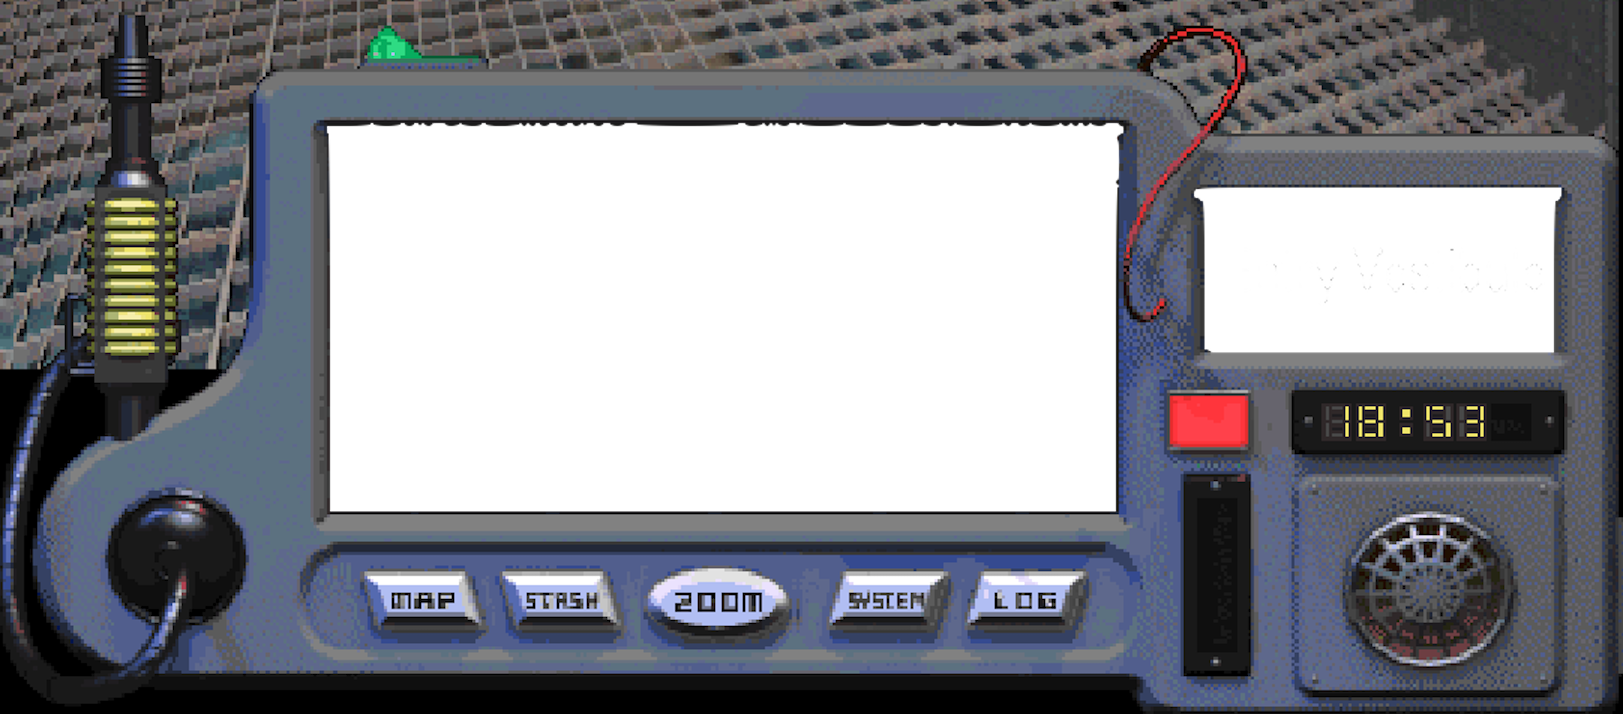
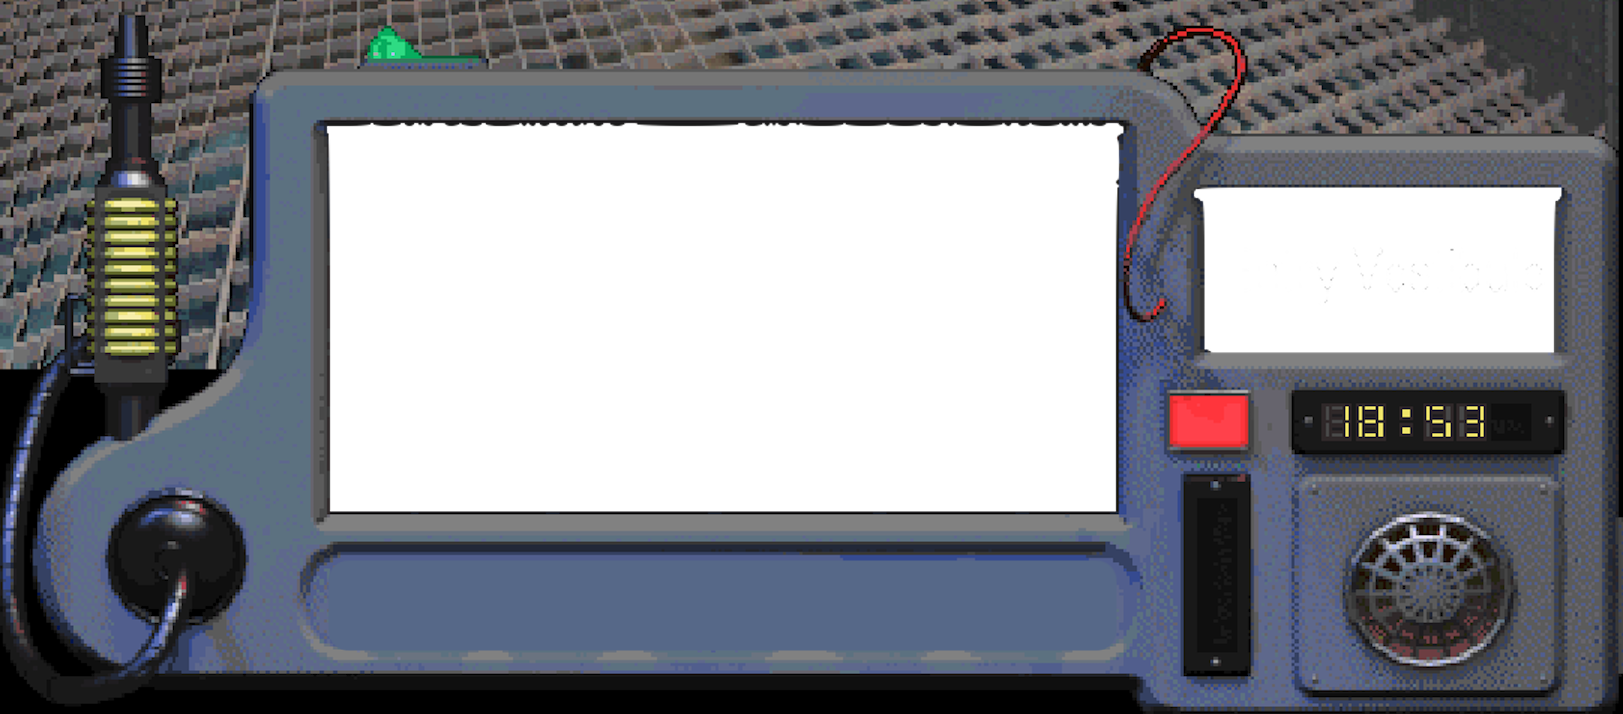
interface good enough for now

Changed region(s): [[0.2157, 0.7703, 0.6778, 0.9244]]

diff --git a/src/app/page.tsx b/src/app/page.tsx
@@ -123,33 +123,41 @@ export default function Home() {
           </div>
         </div>
 
-        {/* Input Area - Positioned over button area */}
+        {/* Input Area - Positioned over first 4 buttons */}
         <div 
           className="absolute"
           style={{ 
             left: '20.6%', 
             bottom: '12.6%', 
-            width: '43.3%',
+            width: '38.3%',
           }}
         >
-          <form onSubmit={handleSubmit} className="flex gap-2">
+          <form onSubmit={handleSubmit}>
             <input
               type="text"
               value={input}
               onChange={(e) => setInput(e.target.value)}
               placeholder="Ask Zelda about The Space Bar..."
-              className="flex-1 p-[1%] bg-gray-800 text-green-400 border border-green-600 rounded text-[0.9vw] font-mono focus:ring-1 focus:ring-green-500 focus:border-green-500"
+              className="w-full p-[1%] bg-gray-800 text-green-400 border border-green-600 rounded text-[0.9vw] font-mono focus:ring-1 focus:ring-green-500 focus:border-green-500"
               disabled={isLoading}
             />
-            <button
-              type="submit"
-              disabled={isLoading}
-              className="bg-green-700 text-green-100 px-[2%] py-[1%] rounded hover:bg-green-600 disabled:bg-gray-600 transition-colors font-mono text-[0.9vw]"
-            >
-              SEND
-            </button>
           </form>
         </div>
+
+        {/* Send Button - Positioned independently over LOG button */}
+        <button
+          onClick={handleSubmit}
+          disabled={isLoading}
+          className="absolute bg-green-700 text-green-100 rounded hover:bg-green-600 disabled:bg-gray-600 transition-colors font-mono text-[0.9vw]"
+          style={{
+            left: '60.3%',
+            bottom: '12.6%',
+            width: '5.5%',
+            height: '5.3%'
+          }}
+        >
+          SEND
+        </button>
       </div>
     </main>
   );
